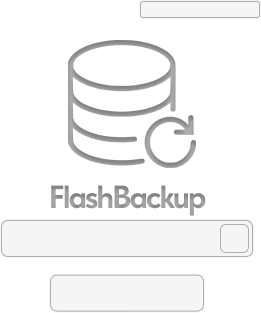
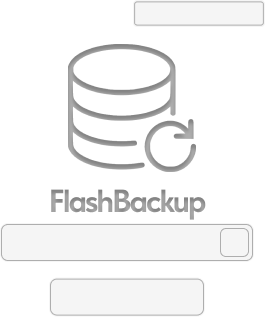
2.0

diff --git a/FlashBackup/TkForge/main.py b/FlashBackup/TkForge/main.py
@@ -6,6 +6,7 @@ import sys
 import shutil
 import logging
 import threading
+import webbrowser
 import psutil
 import ctypes
 import tkinter as tk
@@ -59,10 +60,10 @@ def load_asset(path):
 # Настройка логгера
 logger = logging.getLogger(__name__)
 logger.setLevel(logging.DEBUG)
-formatter = logging.Formatter('%(asctime)s - %(levelname)s - %(message)s')
+formatter = logging.Formatter("%(asctime)s - %(levelname)s - %(message)s")
 
 # Файловый хендлер для логирования в файл
-file_handler = logging.FileHandler('log.txt')
+file_handler = logging.FileHandler("log.txt")
 file_handler.setFormatter(formatter)
 logger.addHandler(file_handler)
 
@@ -80,7 +81,7 @@ def get_volume_label(drive):
         )
         return label.value
     except Exception as e:
-        logger.error(f'Не удалось получить метку тома для {drive}. Ошибка: {e}')
+        logger.error(f"Не удалось получить метку тома для {drive}. Ошибка: {e}")
         return str(e)
 
 
@@ -108,22 +109,25 @@ def is_system_folder(folder_name):
     # Проверка, является ли папка системной
     return folder_name in ["System Volume Information", "$RECYCLE.BIN"]
 
+
 def update_progress_bar():
-    progress_bar['value'] += 1
+    progress_bar["value"] += 1
     window.update_idletasks()
+
 
 def copy_files_from_flash_drive(flash_drive_path, destination_folder):
     for item in os.listdir(flash_drive_path):
         source_path = os.path.join(flash_drive_path, item)
 
-        
         files = os.listdir(flash_drive_path)
-        visible_items = [item for item in files if not item.startswith("System Volume Information")]
-        progress_bar['maximum'] = len(visible_items)
+        visible_items = [
+            item for item in files if not item.startswith("System Volume Information")
+        ]
+        progress_bar["maximum"] = len(visible_items)
 
         # Пропускаем системные папки
         if is_system_folder(item):
-            logger.debug(f'Пропущена системная папка: {source_path}')
+            logger.debug(f"Пропущена системная папка: {source_path}")
             continue
 
         destination_path = os.path.join(destination_folder, item)
@@ -131,30 +135,34 @@ def copy_files_from_flash_drive(flash_drive_path, destination_folder):
         try:
             if os.path.isfile(source_path):
                 shutil.copy2(source_path, destination_path)
-                logger.info(f'Копирован файл: {source_path} -> {destination_path}')
+                logger.info(f"Копирован файл: {source_path} -> {destination_path}")
             elif os.path.isdir(source_path):
                 shutil.copytree(source_path, destination_path)
-                logger.info(f'Скопирована директория: {source_path} -> {destination_path}')
+                logger.info(
+                    f"Скопирована директория: {source_path} -> {destination_path}"
+                )
             update_progress_bar()
         except Exception as e:
-            logger.exception(f'Ошибка при копировании {item}: {e}')
+            logger.exception(f"Ошибка при копировании {item}: {e}")
             messagebox.showerror("Ошибка", f"Ошибка при копировании {item}: {e}")
 
     messagebox.showinfo("Успех", "Файлы успешно скопированы!")
-    progress_bar['value'] = 0
+    progress_bar["value"] = 0
 
 
 def extract_disk_path(input_string):
-    match = re.search(r'\(([A-Z]:\\)\)', input_string)
+    match = re.search(r"\(([A-Z]:\\)\)", input_string)
     if match:
         return match.group(1)
     else:
         return None
 
+
 def run_in_thread(func, *args):
     thread = threading.Thread(target=func, args=args)
     thread.start()
-    
+
+
 def start_copy():
     selected_string = combobox.get()
     disk_path = extract_disk_path(selected_string)
@@ -167,7 +175,7 @@ def start_copy():
         print(disk_path)
         print(flash_drive)
         print(destination_folder)
-        logger.warning('Путь к флешке или папке назначения не указан.')
+        logger.warning("Путь к флешке или папке назначения не указан.")
         messagebox.showwarning(
             "Внимание", "Пожалуйста, выберите флешку и папку назначения."
         )
@@ -182,25 +190,28 @@ window.geometry("300x370")
 window.configure(bg="#808080")
 window.title("FlashBackup")
 
-image_1 = tk.PhotoImage(file=load_asset("1.png"))
+image_1 = tk.PhotoImage(file=load_asset("1_2.png"))
+image_2 = tk.PhotoImage(file=load_asset("1_3.png"))
+
 
 canvas = tk.Canvas(
     window,
     bg="#808080",
     width=300,
-    height=350,
+    height=370,
     bd=0,
     highlightthickness=0,
     relief="ridge",
 )
 canvas.place(x=0, y=0)
 canvas.create_image(153, 166, image=image_1)
+canvas.create_image(150, 347, image=image_2)
 
 combobox = ttk.Combobox(
     values=drives,
     width=17,
 )
-combobox.pack(anchor="ne", padx=14, pady=9)
+combobox.place(x=157, y=11, width=126, height=21)
 
 button_1_image = tk.PhotoImage(file=load_asset("2.png"))
 button_1 = tk.Button(
@@ -210,7 +221,7 @@ button_1 = tk.Button(
     highlightthickness=0,
     command=select_outpath,
 )
-button_1.place(x=247, y=240, width=21, height=16)
+button_1.place(x=245, y=242, width=21, height=16)
 
 button_2_image = tk.PhotoImage(file=load_asset("3.png"))
 button_2 = tk.Button(
@@ -220,7 +231,19 @@ button_2 = tk.Button(
     highlightthickness=0,
     command=start_copy,
 )
-button_2.place(x=77, y=287, width=146, height=33)
+button_2.place(x=75, y=289, width=146, height=33)
+
+button_3_image = tk.PhotoImage(file=load_asset("GitHub.png"))
+button_3 = tk.Button(
+    image=button_3_image,
+    relief="flat",
+    borderwidth=0,
+    highlightthickness=0,
+    command=lambda: webbrowser.open(
+        "https://github.com/tHere1sh0p3/Kursovaya2",
+    )
+)
+button_3.place(x=26, y=13, width=42, height=43)
 
 textbox_1 = TkForge_Entry(
     bd=0,
@@ -231,11 +254,16 @@ textbox_1 = TkForge_Entry(
     highlightthickness=0,
     font=("tilda sans medium", 13),
 )
-textbox_1.place(x=31, y=237, width=209, height=23)
+textbox_1.place(x=29, y=238, width=209, height=23)
 
-  # Синий цвет
 
-progress_bar = ttk.Progressbar(window, orient='horizontal', length=200, mode='determinate', style="Horizontal.TProgressbar")
+progress_bar = ttk.Progressbar(
+    window,
+    orient="horizontal",
+    length=200,
+    mode="determinate",
+    style="Horizontal.TProgressbar",
+)
 progress_bar.place(x=23, y=337, width=254, height=20)
 
 window.resizable(False, False)

diff --git a/test/1.py b/test/1.py
@@ -66,7 +66,7 @@ button_start = Button(root, text="Начать копирование", command=
 button_start.grid(row=2, column=0, columnspan=2, pady=10)
 
 # Прогрессбар
-progress_bar = Progressbar(root, orient=HORIZONTAL, length=400, mode="determinate")
+progress_bar = Progressbar(root, orient=HORIZONTAL,value= 50, length=400, mode="determinate")
 progress_bar.grid(row=3, column=0, columnspan=2, padx=10, pady=20)
 
 # Запуск главного цикла приложения
